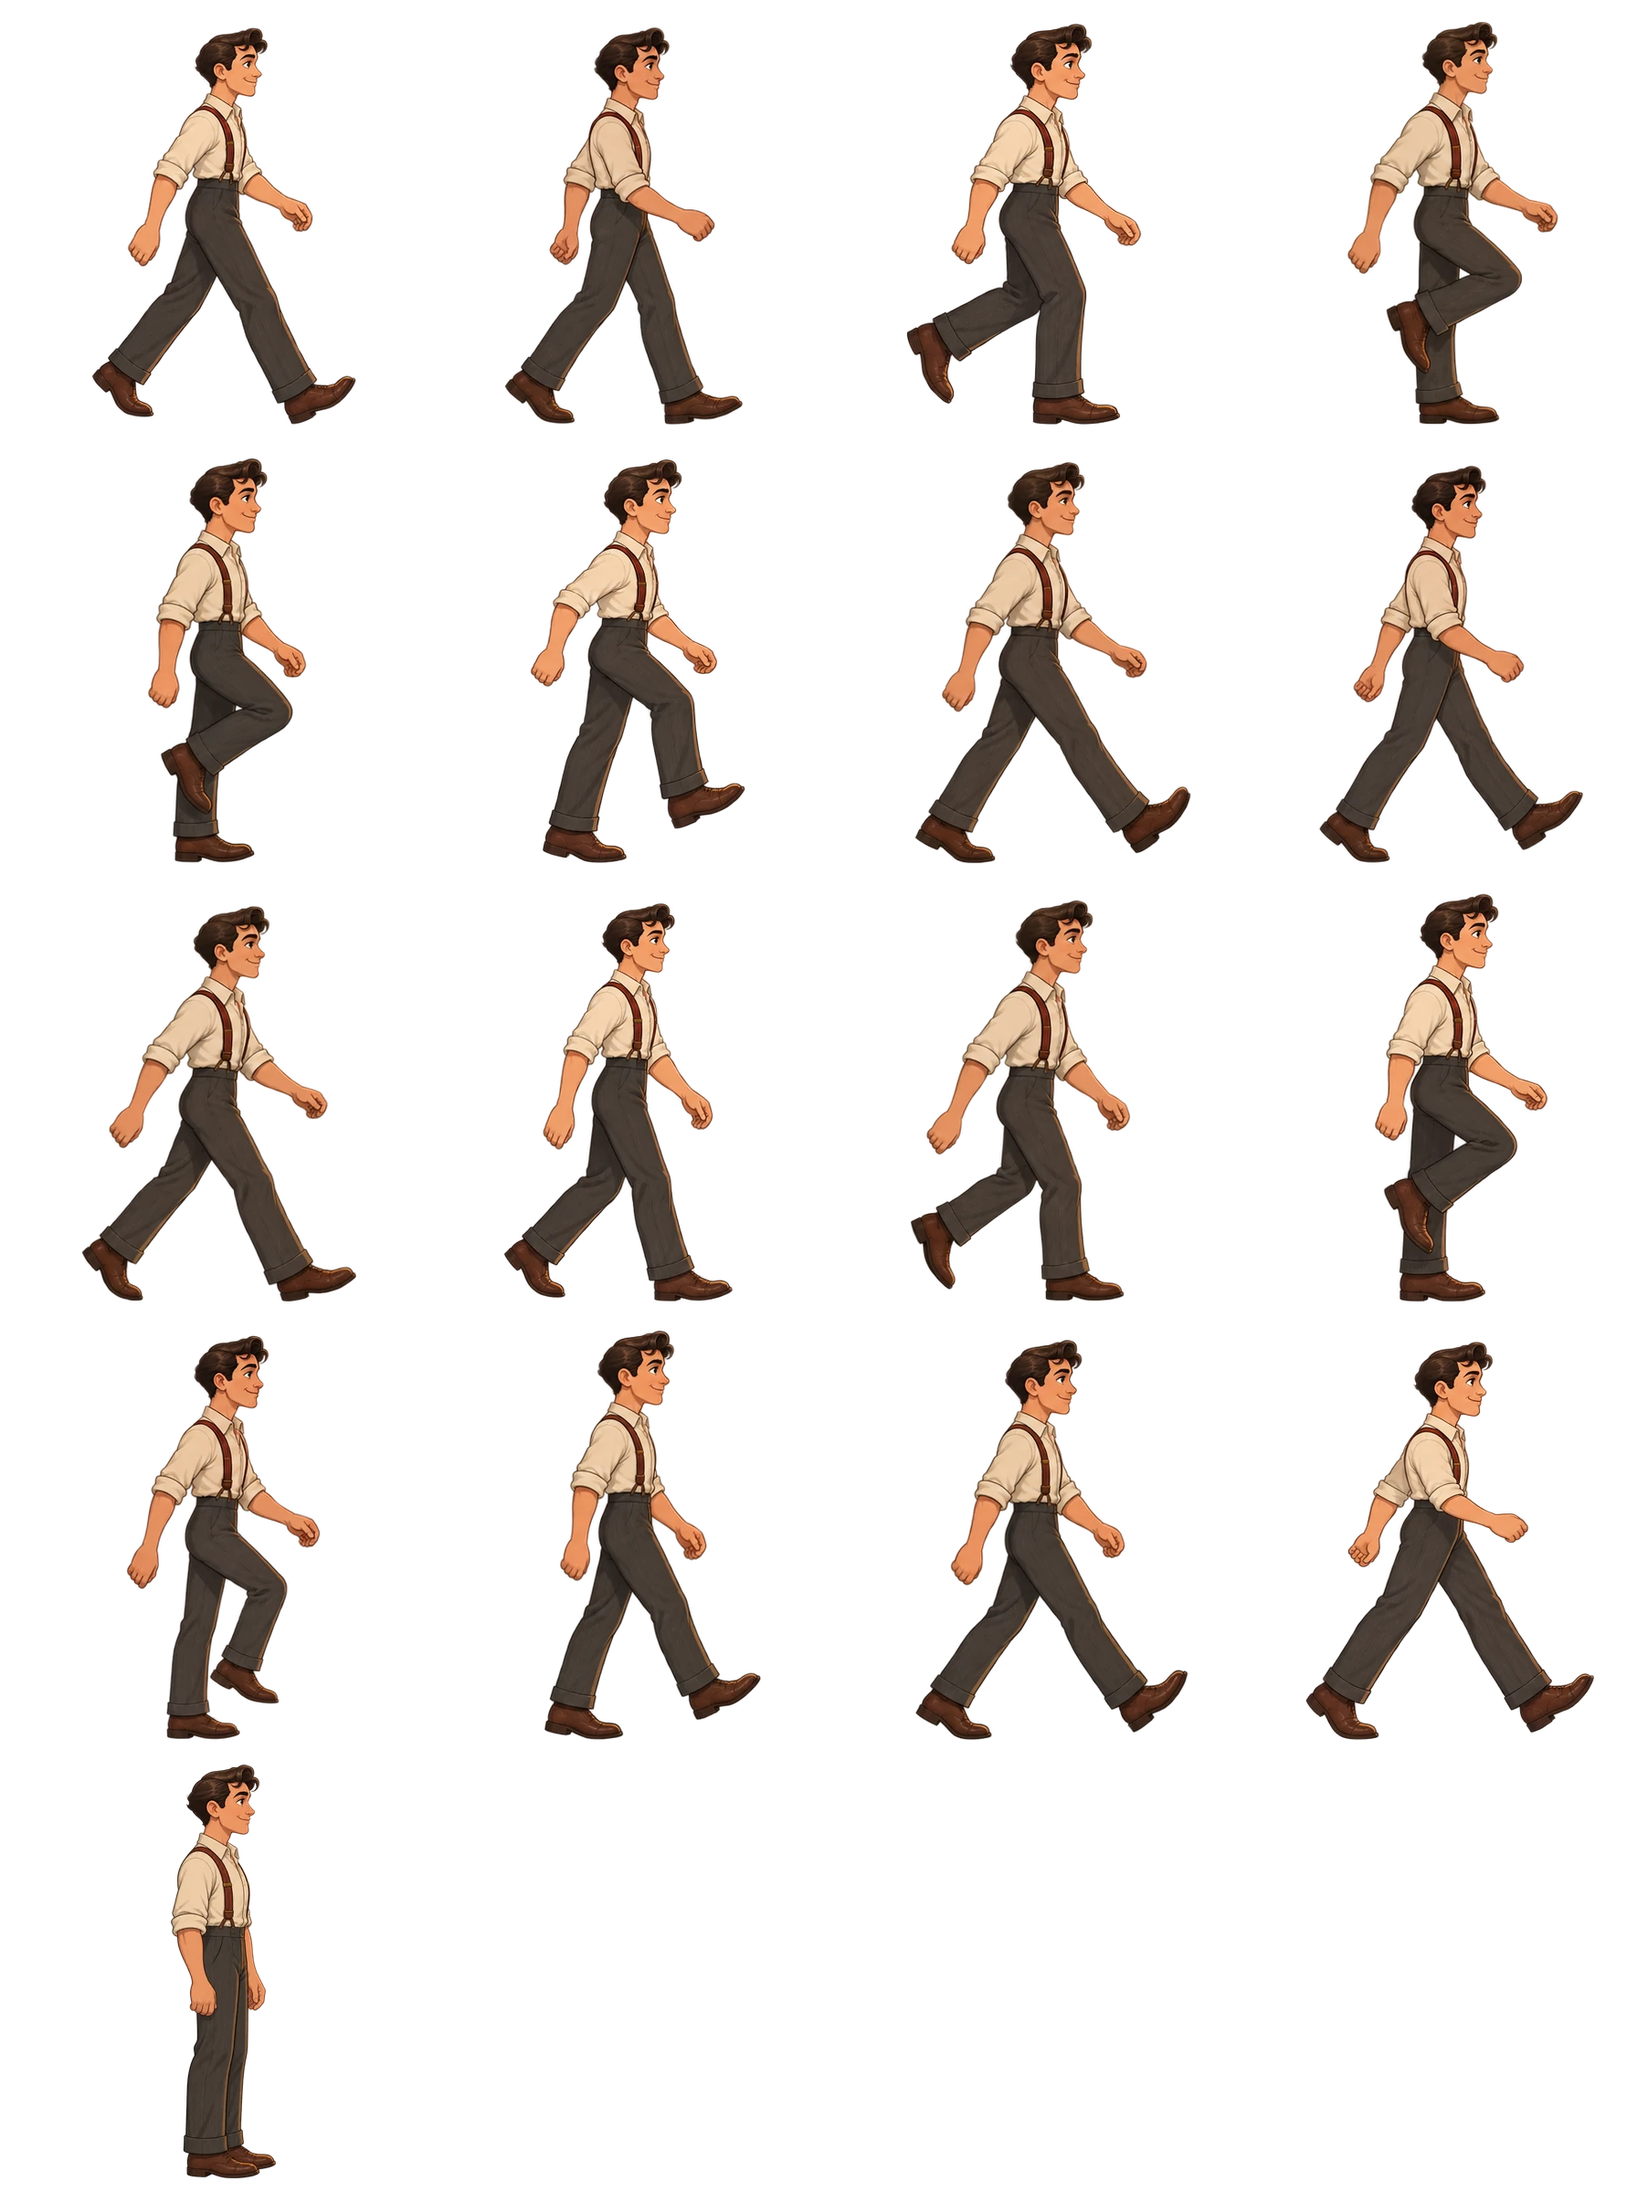
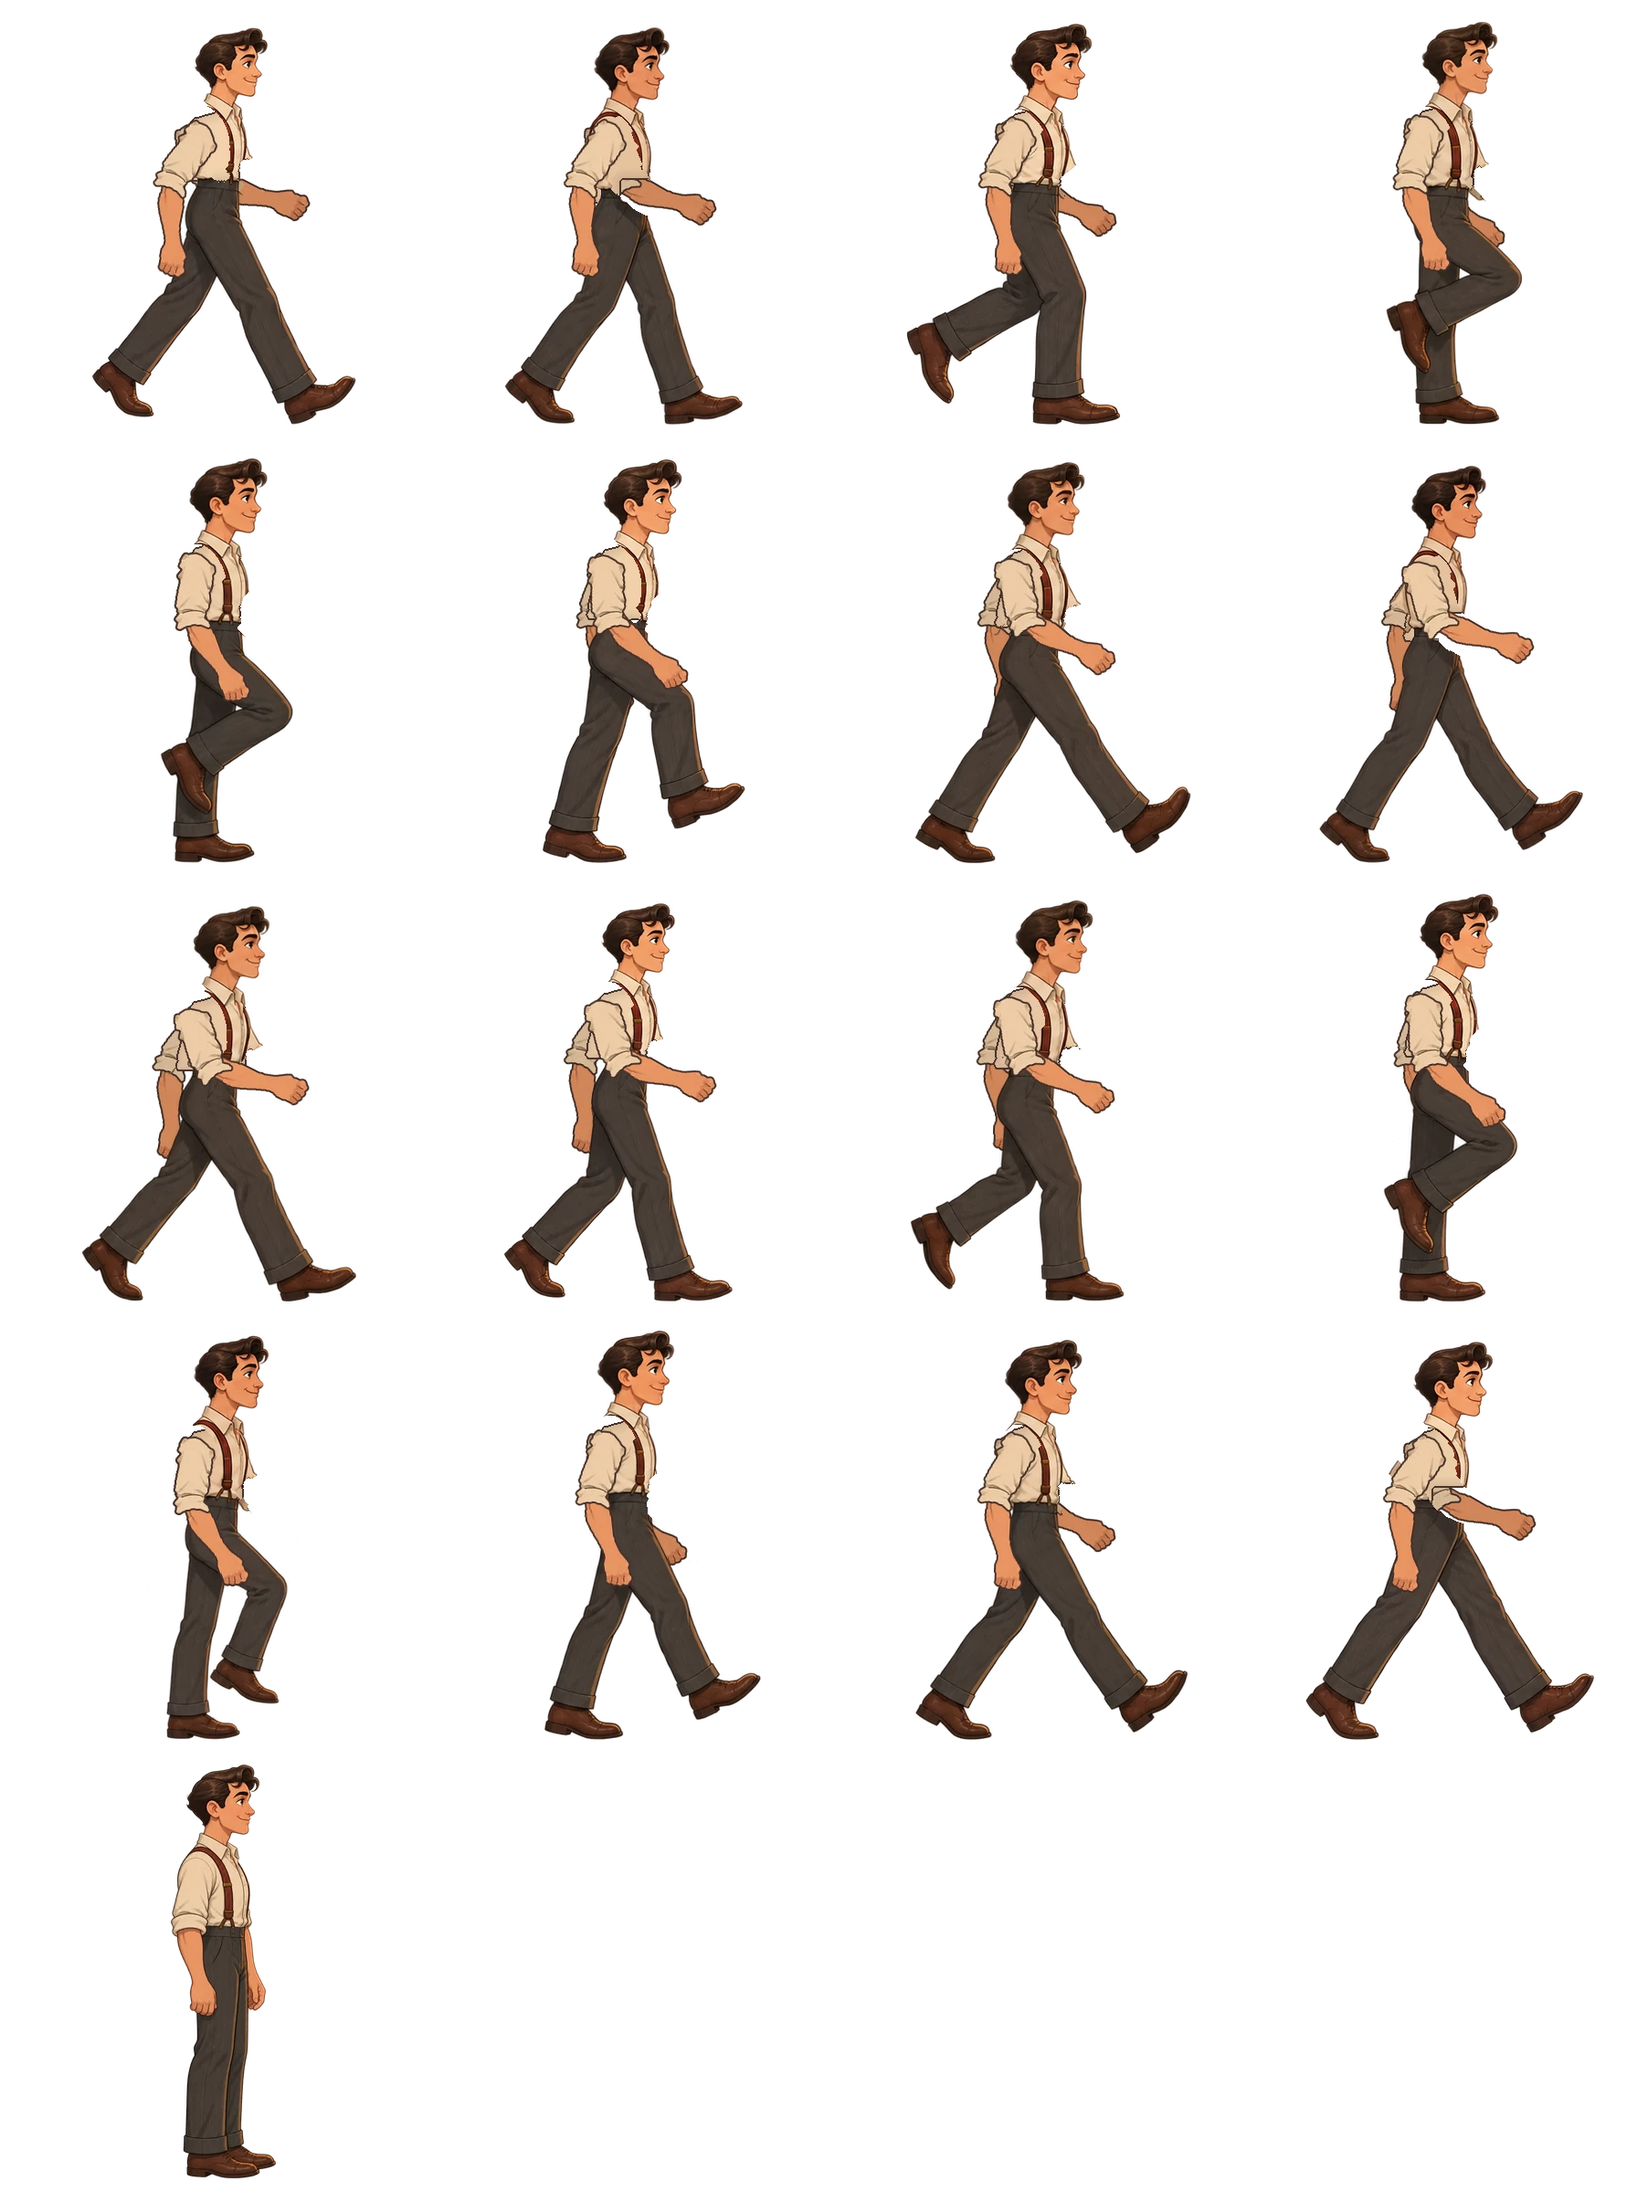
Rebuild the walk cycle's arms as a rigged pendulum swing
The generator drew the same scissor in every frame (one hand back at about
-16 to -33 degrees, the other forward at about +38 to +52, never crossing,
even at the passing frames), and the hands wandered up to about 50 sheet px
between adjacent frames, which read as jitter with no left/right swap.

Each loop frame is now rebuilt as far arm (behind), torso layer (both drawn
arms removed, shirt back repainted) and near arm (in front). Both arms are
cut from the standing pose in two rigid pieces (sleeve with cuff, forearm
with fist), given a clean smooth outline, and swung on a pendulum: the near
arm goes back while the far arm goes forward, they pass beside the body at
the passing frames, then swap. Swing is 28 degrees each way about a +5
degree mean; the elbow bends more as the arm swings forward; the far arm is
drawn a little darker. The largest change between adjacent frames is about
11 degrees, at the moment the arms cross.

Legs, head and the idle frame are unchanged, and walk-cycle.json is
identical, so only the sheet changes.

diff --git a/art/prompts/character-aspiring-actor-walk-cycle-v2.md b/art/prompts/character-aspiring-actor-walk-cycle-v2.md
@@ -53,6 +53,8 @@ Foot planting: the stance foot's position is fitted to a straight line at the co
 
 Upper-body smoothing (added after owner feedback that the first version bounced too much): as drawn, the shoulder line jumped up to 38 sheet px (17 display px) between adjacent frames, against a natural walking bob of about 9 sheet px in total. `tools/smooth_upper_body.py` warps each loop frame so the shoulder line follows a gentle two-bobs-per-loop curve (highest at the passing frames, lowest at heel contact, about 4 display px peak to peak) and the torso sits at the cell's horizontal centre. The head and shoulders move rigidly; the shift fades out (smoothstep) over 220 rows down the torso and into the thighs, so the shins and planted feet, the foot-planting fit and the footprint data are untouched (verified: 0 changed pixels in rows 375-479 of every frame). Result: shoulder-height range 39 -> 9 sheet px, frame-to-frame change max 38 -> 6 and mean 15.4 -> 2.8 sheet px (x0.461 for display px), torso x within 1 sheet px of centre. The unsmoothed master is kept as `aspiring-actor-walk-v2-master-unsmoothed.png`.
 
+Arm rig (added after owner feedback that the arms were jittery): the generator drew the same scissor in every frame (one hand back at about -16 to -33 degrees, the other forward at about +38 to +52, never crossing, not even in the passing frames), with the hands wandering up to about 50 sheet px between adjacent frames. `tools/rig_arms.py` (with `tools/arm_parts.py`) rebuilds each loop frame as three layers: the far arm behind the body, the torso layer with both drawn arms removed and the shirt back repainted, and the near arm in front. Both arms are cut from the standing pose, where they hang straight, in two rigid pieces (sleeve with cuff, forearm with fist), given a clean smooth outline, and swung on a pendulum: the near arm goes back while the far arm goes forward, they pass beside the body at the passing frames (4-6 and 12-14), then swap; each arm makes one full swing per loop, opposite to the leg on its side. Parameters at the top of the tool: mean +5 degrees, swing 28 degrees each way (about +33 forward, -23 back), elbow bend 12 degrees at rest plus 0.55 degrees per degree of forward swing (about 30 degrees when forward), far arm drawn 10% darker. The largest change between adjacent frames is about 11 degrees of arm swing, at the moment the arms pass each other. Legs, head and idle frame are unchanged (verified: 0 changed pixels in the head rows and below the hips). The pre-rig sheet is kept as `aspiring-actor-walk-v2-master-smoothed.png`.
+
 ```text
 asset_id: aspiring_actor_walk_v2
 asset_type: character walk-cycle sprite sheet, 16 loop frames plus idle, transparent background
@@ -61,8 +63,8 @@ reference_asset_ids: aspiring_actor_walk (original sheet, frames 1 and 4), aspir
 generation_tool_and_version: gpt-image-2 via gg-image (Codex ChatGPT backend), --background transparent, --quality high; local selection, scale normalisation and packing with art/generated/walk-cycle-v2/tools/
 generation_date: 2026-09-20
 raw_source_location: art/generated/walk-cycle-v2/half-v3-{A,B}-take{1,2}.png and idle-take1.png
-human_edits: none to the drawings. Deterministic processing only: frame selection, uniform scaling of each frame so head size matches, horizontal shifts for foot planting, a vertical and horizontal warp above the knees to smooth the upper body's path (tools/smooth_upper_body.py), idle frame scaled to 103% of the walk frames' mean height, alpha >= 250 set to 255 and alpha <= 3 set to 0
-master_file: art/generated/walk-cycle-v2/aspiring-actor-walk-v2-master.png (lossless, smoothed); aspiring-actor-walk-v2-master-unsmoothed.png is the pre-smoothing master
+human_edits: none to the drawings. Deterministic processing only: frame selection, uniform scaling of each frame so head size matches, horizontal shifts for foot planting, a vertical and horizontal warp above the knees to smooth the upper body's path (tools/smooth_upper_body.py), replacement of the drawn arms with a rigged pair cut from the standing pose (tools/rig_arms.py), idle frame scaled to 103% of the walk frames' mean height, alpha >= 250 set to 255 and alpha <= 3 set to 0
+master_file: art/generated/walk-cycle-v2/aspiring-actor-walk-v2-master.png (lossless, smoothed, arms rigged); aspiring-actor-walk-v2-master-smoothed.png is the pre-rig master and aspiring-actor-walk-v2-master-unsmoothed.png the pre-smoothing master
 review_status: approved by the owner 2026-09-20
 rights_or_license_notes: project-owned development generation; human rights/provenance review required
 runtime_files: public/assets/characters/aspiring-actor-walk.webp (1792x2400 RGBA, lossy quality 90, alpha_quality 100) and public/data/walk-cycle.json
@@ -77,6 +79,7 @@ runtime_files: public/assets/characters/aspiring-actor-walk.webp (1792x2400 RGBA
 
 - **The two steps are near-duplicates in silhouette.** In a side view a left step and a right step look almost identical, so frames 9-16 are 8 distinct drawings, but they read as the same poses. Which leg is nearer the camera cannot be told apart at game size.
 - **Swing-leg timing is only approximately even.** The candidate pool did not contain a clean frame for every slot, so in steps 6 and 7 of each half the swinging foot gets ahead of an ideal even progression. The planted foot, which is what causes visible sliding, is fitted closely.
+- **The arms are a rig, not drawings from the generator.** Both are the same arm cut from the standing pose, so they are identical in shape and only the far one is darker, the sleeve and forearm do not squash or twist, and the shirt back behind the near arm is repainted (flat tone, drawn edge). It is clean at game size; watch the shoulder edge and the front of the chest if the sheet is ever shown larger.
 - **Upper-body path is a synthetic curve.** The drawn frames bounced up to 38 sheet px (17 display px) between frames, so the head and torso were warped onto a smooth bob (see Upper-body smoothing). The torso is stretched or squashed by up to about 16% locally, in the torso and upper thigh; it is not visible at game size in review, but watch for it if the sheet is ever shown larger.
 - **28 frame changes per second at 390 px/s** (about 1.74 loops per second). On a 60 Hz display each frame is held 2 or 3 refreshes, so the frame rhythm is uneven. Lowering `WALK_SPEED` slows the cadence without reintroducing sliding, because the animation follows distance.
 - **Stopping snaps to the idle frame** (as the old code did); there is no ease-out.
